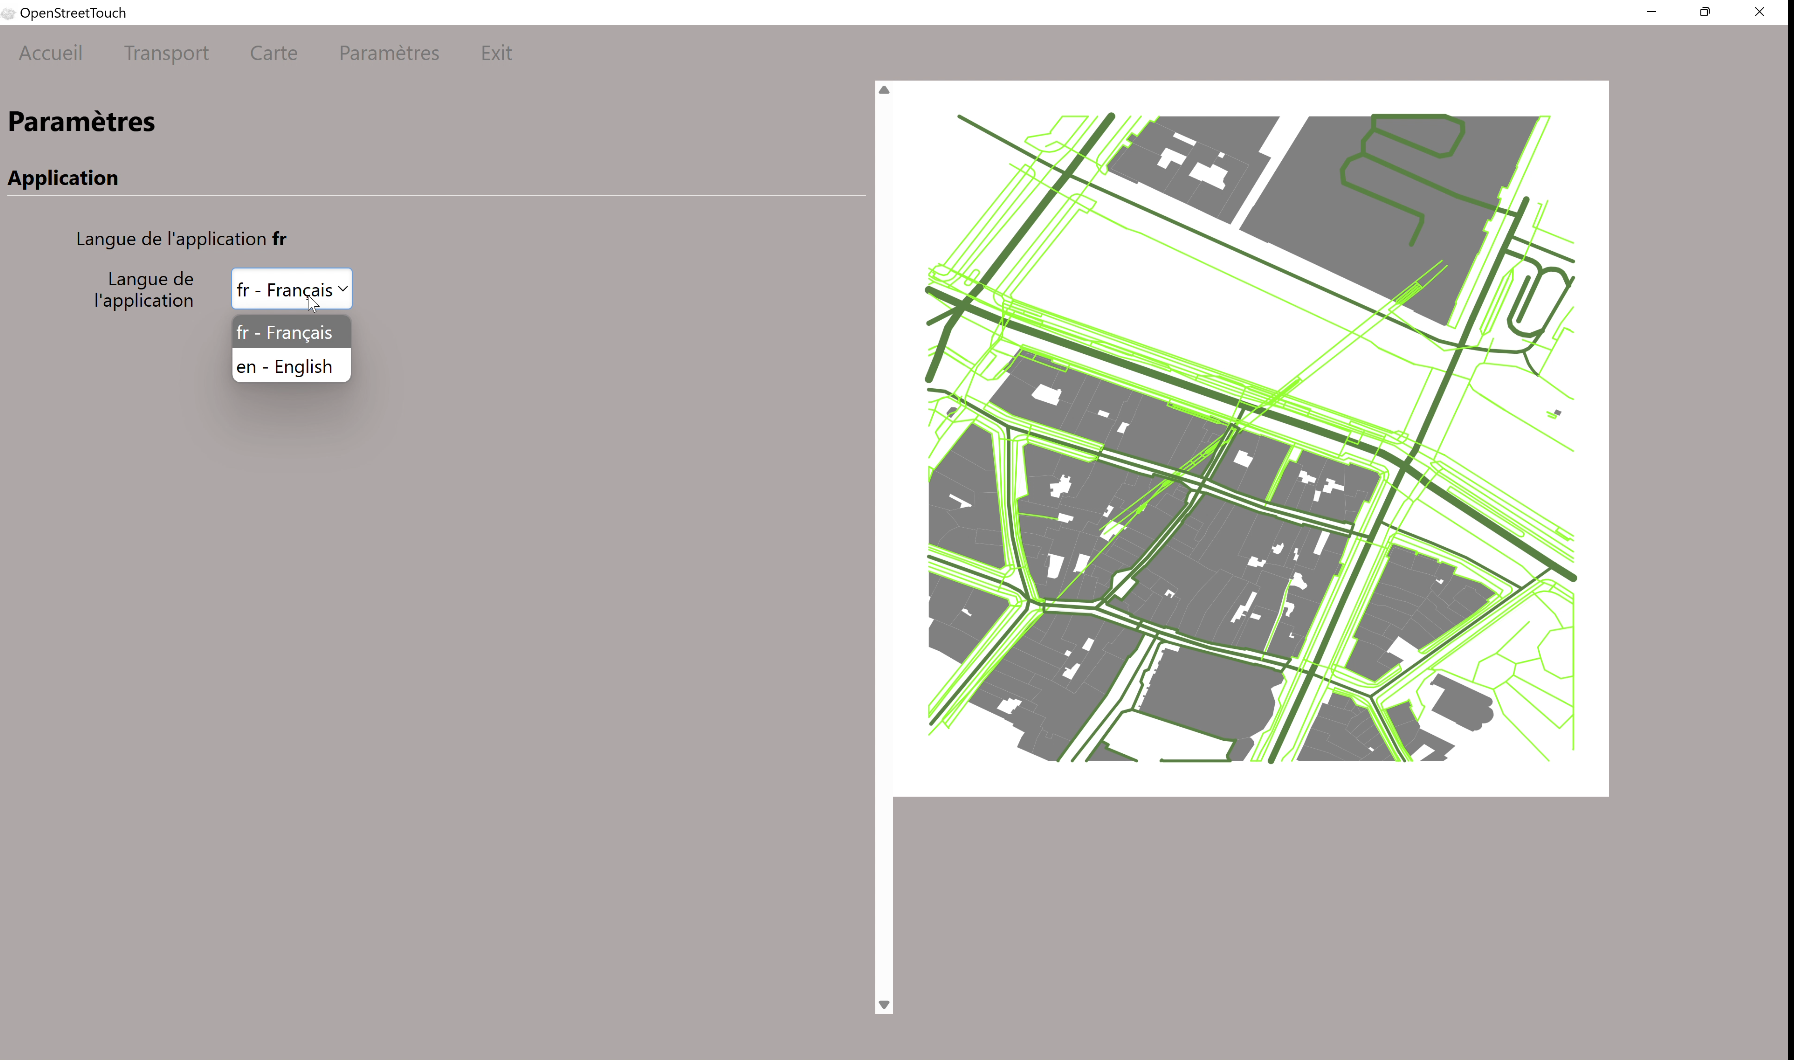
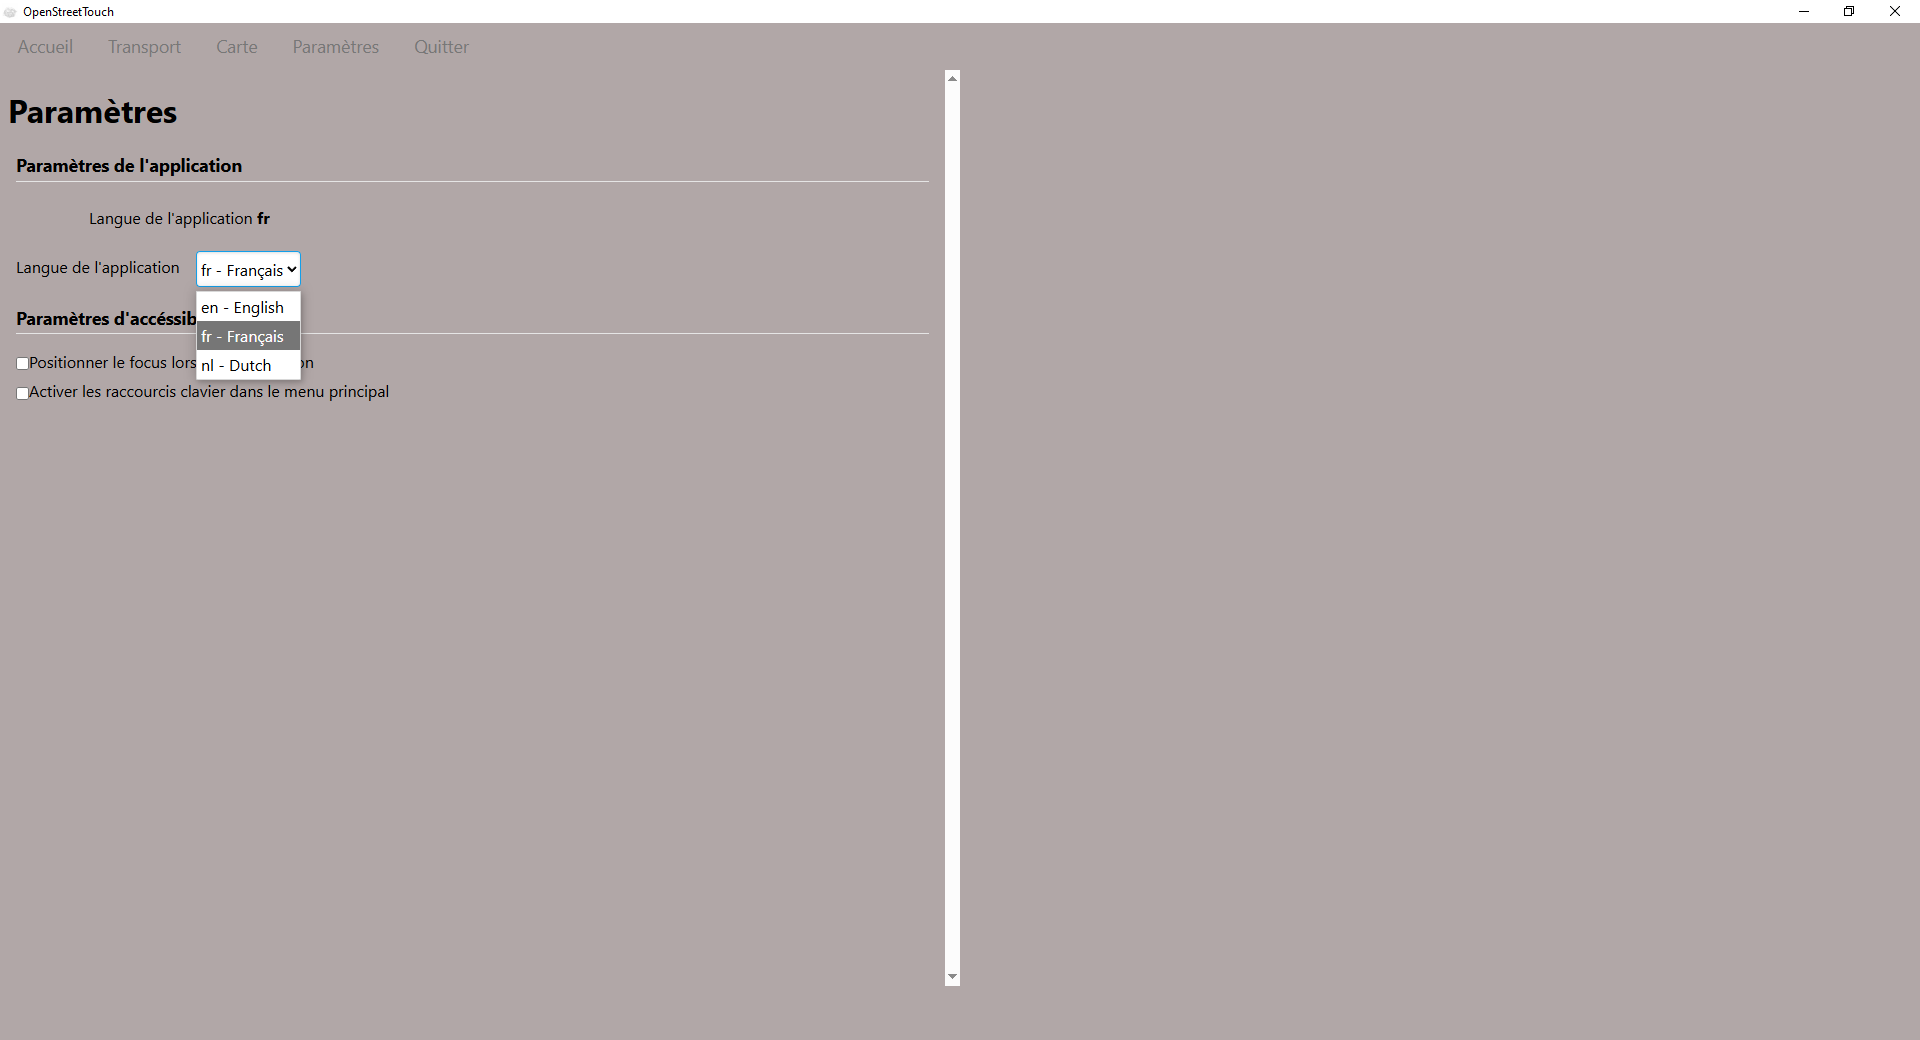
add and update some screenshot

diff --git a/src/pages/CityMap.js b/src/pages/CityMap.js
@@ -297,8 +297,8 @@ const CityMap = () => {
         <main>
             <div className='CityMapParam'>
                 
-                    <h1>{GetLocaleString("citymap.maptitle")}   </h1>
-                    <h2>Paramètres de la zone d'extraction</h2>
+                    <h1>{GetLocaleString("citymap.maptitle")}</h1>
+                    <h2>{GetLocaleString("citymap.mapparam")}</h2>
                     <fieldset >
                     <legend>{GetLocaleString("citymap.extractposition")}</legend>
                     <label>{GetLocaleString("citymap.latitude")}

diff --git a/src/App.css b/src/App.css
@@ -348,9 +348,9 @@ a.pure-button-secondary
 .CheckedList 
 {
   display: block;
-  max-height: 25rem;
-  margin-top: 1rem;
-  margin-bottom: 1rem;
+  max-height: 23rem;
+  margin-top: 0.5rem;
+  margin-bottom: 0.5rem;
   overflow:auto
 }
 

diff --git a/docs/manuel_utilisateur.md b/docs/manuel_utilisateur.md
@@ -54,6 +54,8 @@ La page d'accueil présente le numéro de version du programme , les logos des p
 ## Transport
 Cet onglet permet d'extraire les lignes de transport d'une ville selon les paramètres définis par l'utilisateur.
 
+![Capture d'écran de l'onglet Transport](IMG/transport.png)
+*Utilisation e l'onglet Transport avec le métro Parisien*
 
 ### 1- Définir les paramètres de l’extraction
 
@@ -156,11 +158,11 @@ Attention pour que ce bouton apparaisse il faut avoir généré le dessin en aya
 Passer en mode d’affichage Contour: Menu : Affichage > Contours
 
 
-![visualisation dans le logiciel vectoriel Inkscape des lignes de transport en mode polygone. Attention à bien choisir le mode affichage des contours pour les visualiser](IMG/polygone.png)
+![visualisation dans le logiciel Inkscape des lignes de transport en mode polygone. Attention à bien choisir le mode affichage des contours pour les visualiser](IMG/polygone.png)
 *Visualisation dans le logiciel vectoriel Inkscape des lignes de transport en mode polygone. Attention à bien choisir le mode affichage des contours pour les visualiser !*
 
 
-![visualisation dans le logiciel vectoriel Inkscape des lignes de transport en mode normal (mode polygone décoché)](IMG/no_polygone.png)
+![visualisation dans le logiciel Inkscape des lignes de transport en mode normal](IMG/no_polygone.png)
 *Visualisation dans le logiciel vectoriel Inkscape des lignes de transport en mode normal (mode polygone décoché)*
 
 
@@ -181,6 +183,8 @@ Passer en mode d’affichage Contour: Menu : Affichage > Contours
 
 Cet onglet permet d'extraire une carte à partir d’un point central et d’un rayon. A noter que la carte extraite est au format rectangulaire (le cercle tracé à partir du rayon est transformé en rectangle pour la génération de la carte)
 
+![Vue de l'interface de l'onglet carte](IMG/map.png)
+*Vue de l'interface de l'onglet carte*
 
 ### 1-Déterminer le périmètre du plan souhaité
 **Le point central peut être défini de deux manières :**
@@ -236,18 +240,27 @@ Cocher les options suivantes pour qu'elles soient inclues sur le plan.
 *enregistrer l'image au format souhaité : svg ou png*
 
 
-- **Enregistrer l'image en SVG** : Cliquer sur le bouton pour générer le plan au format SVG
-- **Enregistrer l'image en PNG** : Cliquer sur le bouton pour générer le plan au format PNG
+- **Enregistrer l'image en SVG** : Cliquer sur le bouton pour enregistrer le plan au format SVG
+- **Enregistrer l'image en PNG** : Cliquer sur le bouton pour enregistrer le plan au format PNG
 
 
 
 ## Paramètres
-**Langue de l'application :** Menu déroulant pour choisir la langue de l'application actuellement disponible en français ou en anglais
+
+### Paramètres de l'application
+
+**Langue de l'application :** Menu déroulant pour choisir la langue de l'application.
 
 
 ![Choix de la langue dans le menu Paramètres )](IMG/Langue_application.png)
 *Choix de la langue dans le menu Paramètres*
 
+### Paramètres d'accessibilité
+
+**Positionner le focus lors de la navigation :** Cocher cette option pour que le focus soit positionné sur les éléments les plus utilisés lors de la navigation dans l'application.
+
+**Activer les raccourcis clavier dans le menu principal :** Les raccourcis clavier sont très utiles pour permettre une navigation rapide. Cependant ils sont compliqués a représenter dans certaine langue et sont parfois
+incompatible avec les lecteurs d'écran. Vous pouvez utiliser cette option pour activer ou désactiver les raccourcis clavier dans le menu principal.
 
 ## Quitter 
 **Quitter l'application** : Cliquer sur l'onglet Exit pour fermer l'application
